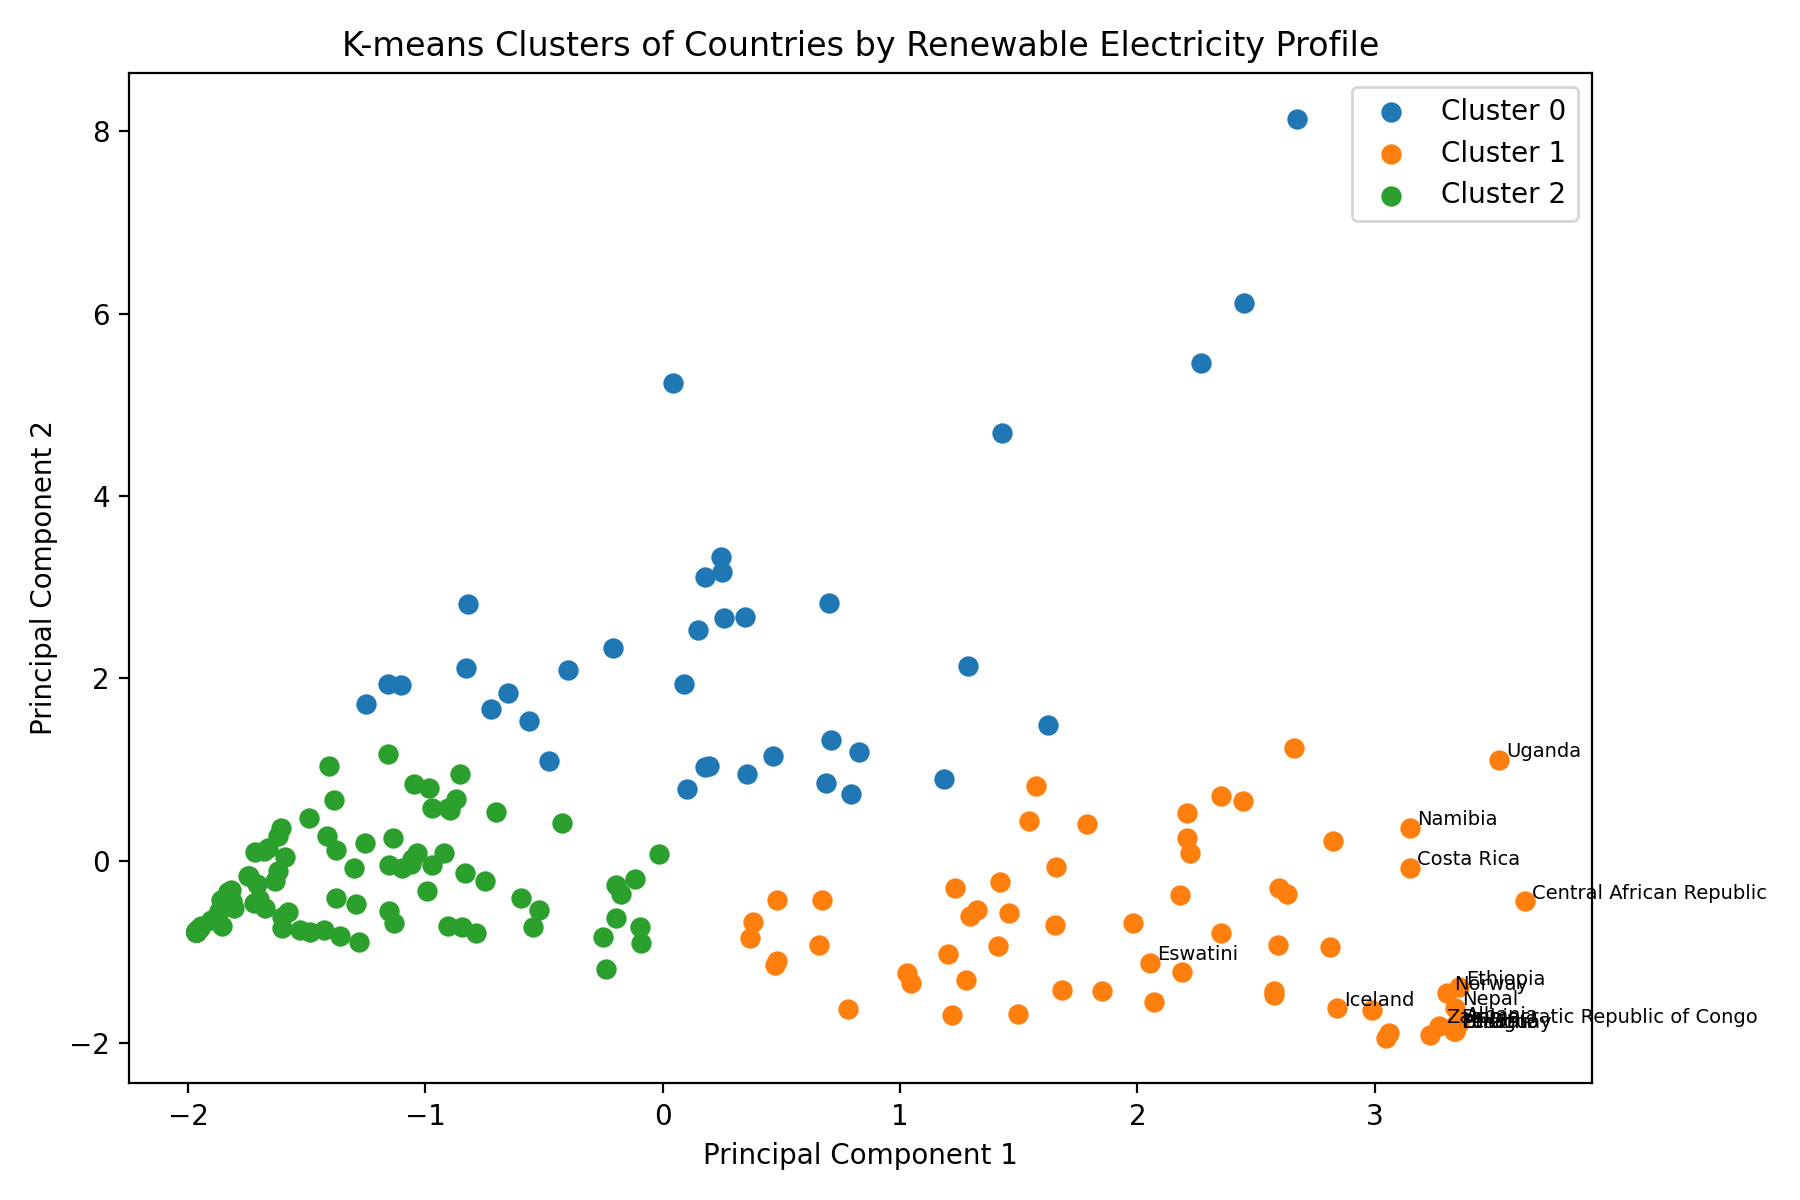
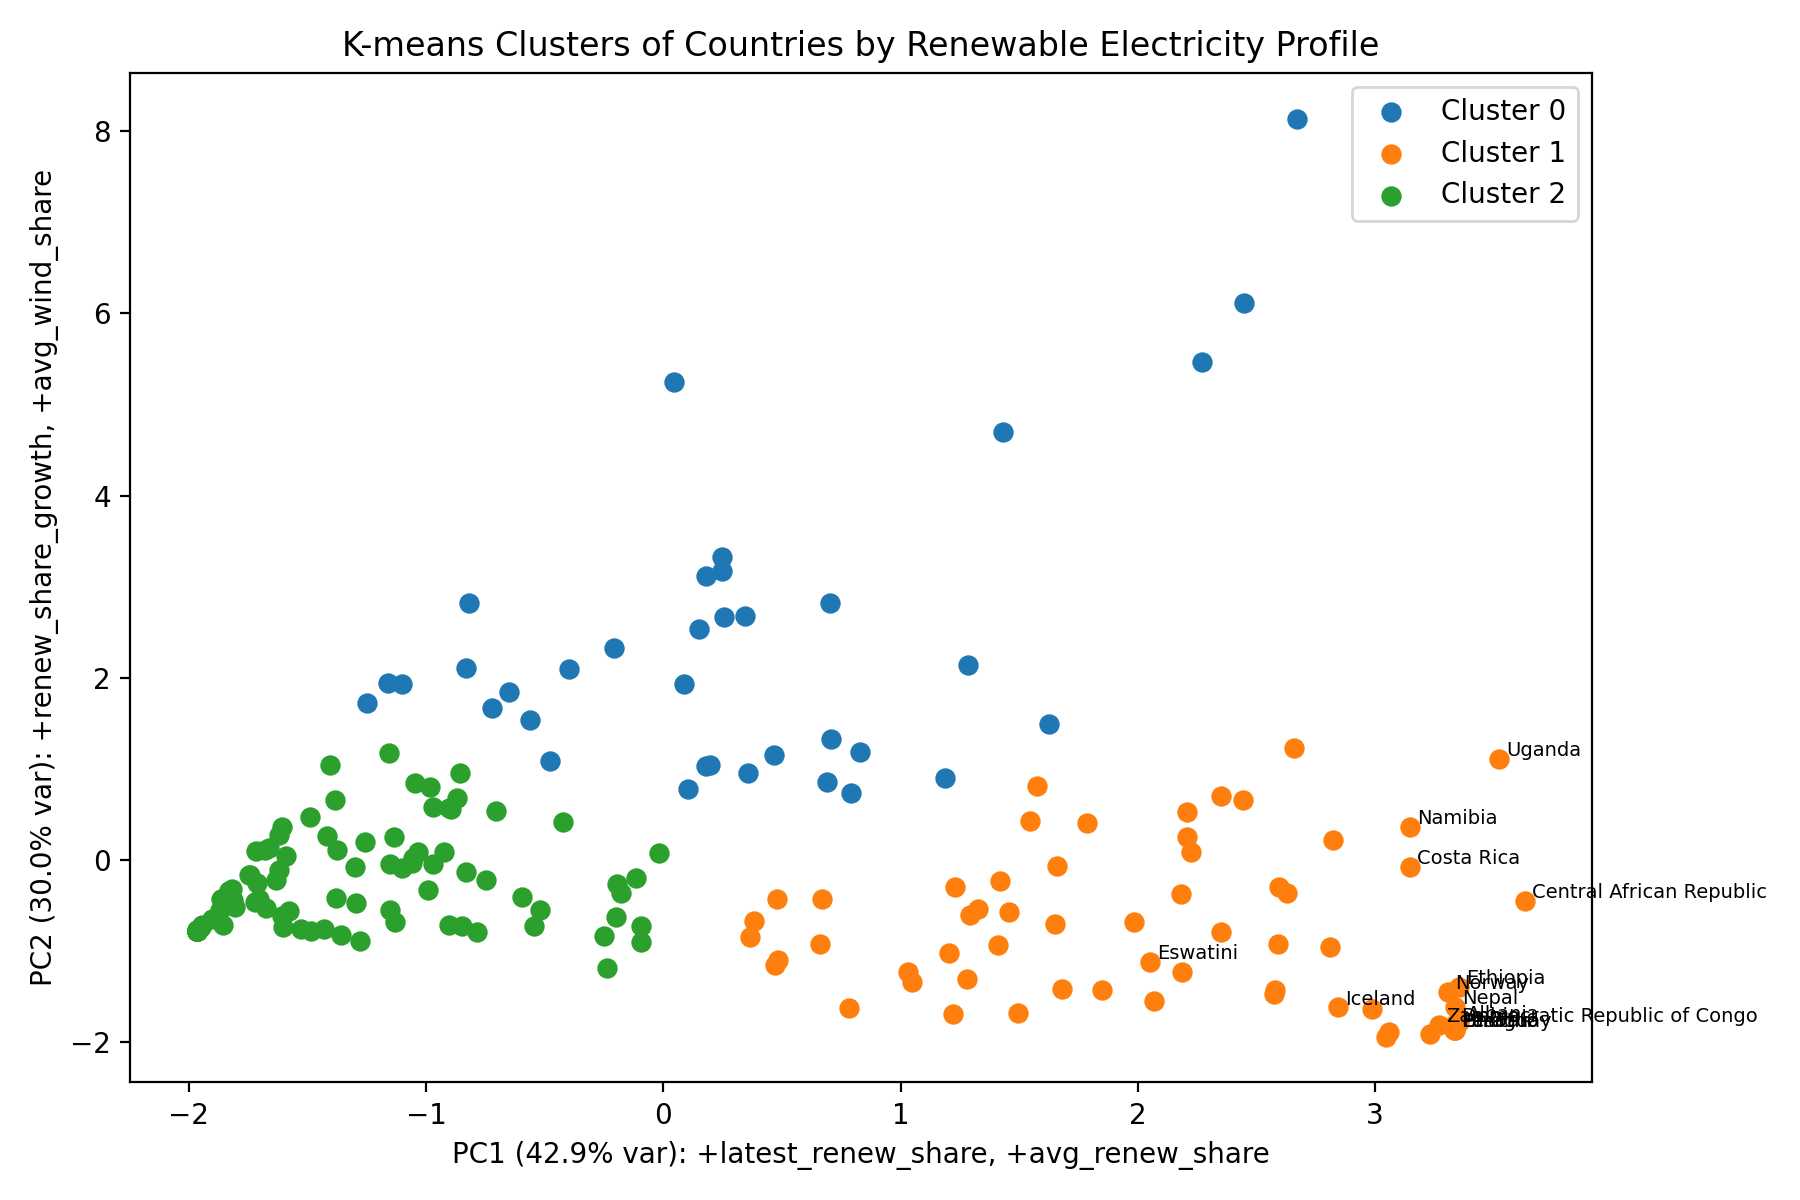
Label PCA axes in clustering outputs

diff --git a/tools/arima_kmeans_analysis.py b/tools/arima_kmeans_analysis.py
@@ -193,8 +193,9 @@ def run_kmeans(n_clusters: int = 3) -> tuple[pd.DataFrame, pd.DataFrame]:
     ).dropna()
     features = features.reset_index()
 
+    feature_cols = [c for c in features.columns if c != "Entity"]
     scaler = StandardScaler()
-    X = scaler.fit_transform(features.drop(columns=["Entity"]))
+    X = scaler.fit_transform(features[feature_cols])
 
     kmeans = KMeans(n_clusters=n_clusters, random_state=42, n_init=20)
     labels = kmeans.fit_predict(X)
@@ -225,9 +226,24 @@ def run_kmeans(n_clusters: int = 3) -> tuple[pd.DataFrame, pd.DataFrame]:
 
     pca = PCA(n_components=2, random_state=42)
     coords = pca.fit_transform(X)
+    loadings = pd.DataFrame(
+        pca.components_.T,
+        index=feature_cols,
+        columns=["PC1", "PC2"],
+    )
+    loadings.to_csv(OUT / "kmeans_pca_loadings.csv")
     plot_df = features.copy()
     plot_df["pc1"] = coords[:, 0]
     plot_df["pc2"] = coords[:, 1]
+
+    def pc_label(pc_name: str) -> str:
+        series = loadings[pc_name].sort_values(key=lambda s: s.abs(), ascending=False).head(2)
+        parts = []
+        for idx, val in series.items():
+            direction = "+" if val >= 0 else "-"
+            parts.append(f"{direction}{idx}")
+        explained = pca.explained_variance_ratio_[0 if pc_name == "PC1" else 1] * 100
+        return f"{pc_name} ({explained:.1f}% var): " + ", ".join(parts)
 
     plt.figure(figsize=(9, 6))
     cmap = plt.get_cmap("tab10")
@@ -240,8 +256,8 @@ def run_kmeans(n_clusters: int = 3) -> tuple[pd.DataFrame, pd.DataFrame]:
         plt.text(row["pc1"] + 0.03, row["pc2"] + 0.03, row["Entity"], fontsize=7)
 
     plt.title("K-means Clusters of Countries by Renewable Electricity Profile")
-    plt.xlabel("Principal Component 1")
-    plt.ylabel("Principal Component 2")
+    plt.xlabel(pc_label("PC1"))
+    plt.ylabel(pc_label("PC2"))
     plt.legend()
     plt.tight_layout()
     plt.savefig(OUT / "kmeans_clusters_pca.png", dpi=200)

diff --git a/tools/real_gdp_analysis.py b/tools/real_gdp_analysis.py
@@ -238,9 +238,24 @@ def run_kmeans(df: pd.DataFrame) -> tuple[pd.DataFrame, pd.DataFrame]:
 
     pca = PCA(n_components=2, random_state=42)
     coords = pca.fit_transform(X)
+    loadings = pd.DataFrame(
+        pca.components_.T,
+        index=numeric_cols,
+        columns=["PC1", "PC2"],
+    )
+    loadings.to_csv(OUT / "kmeans_pca_loadings.csv")
     plot_df = feature_df.copy()
     plot_df["pc1"] = coords[:, 0]
     plot_df["pc2"] = coords[:, 1]
+
+    def pc_label(pc_name: str) -> str:
+        series = loadings[pc_name].sort_values(key=lambda s: s.abs(), ascending=False).head(2)
+        parts = []
+        for idx, val in series.items():
+            direction = "+" if val >= 0 else "-"
+            parts.append(f"{direction}{idx}")
+        explained = pca.explained_variance_ratio_[0 if pc_name == "PC1" else 1] * 100
+        return f"{pc_name} ({explained:.1f}% var): " + ", ".join(parts)
 
     plt.figure(figsize=(8, 6))
     cmap = plt.get_cmap("tab10")
@@ -250,8 +265,8 @@ def run_kmeans(df: pd.DataFrame) -> tuple[pd.DataFrame, pd.DataFrame]:
         for _, row in sub.iterrows():
             plt.text(row["pc1"] + 0.03, row["pc2"] + 0.03, row["Country Name"], fontsize=8)
     plt.title("K-means Clusters of Countries by GDP Growth Profile")
-    plt.xlabel("Principal Component 1")
-    plt.ylabel("Principal Component 2")
+    plt.xlabel(pc_label("PC1"))
+    plt.ylabel(pc_label("PC2"))
     plt.legend()
     plt.tight_layout()
     plt.savefig(OUT / "kmeans_gdp_clusters.png", dpi=200)
